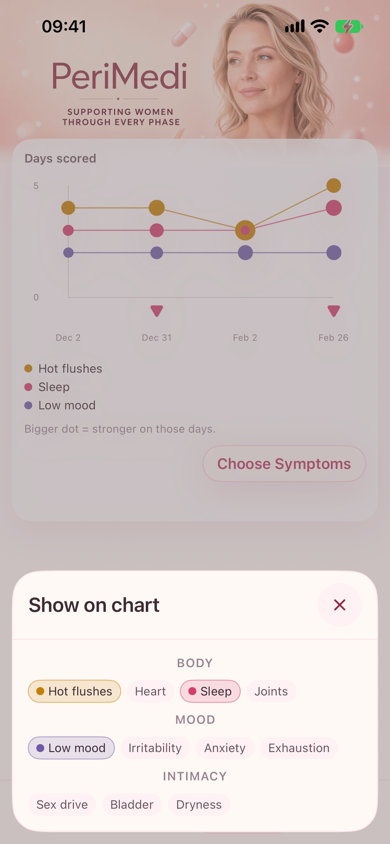
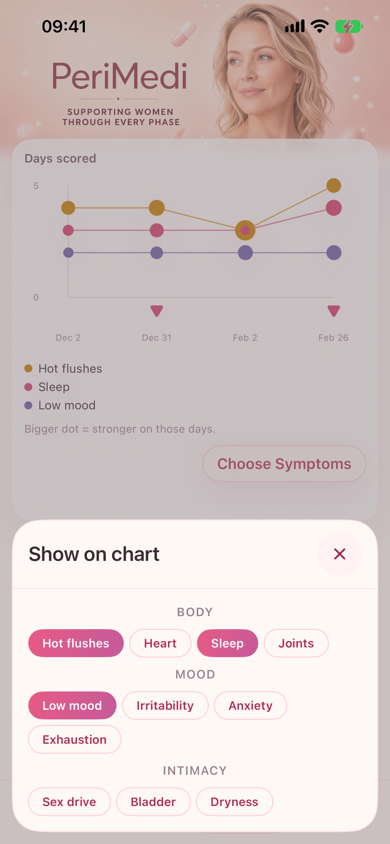
fix(trends): use one selected pill and German chrome (#97)
* docs: add German copy-review before shots

* fix(l10n): match German legend and backup titles

* fix(trends): use language pills on the symptom sheet

* docs: add German copy-review after shots

* fix(trends): wrap a long choice name

A name longer than 22 characters stays in a 220-point frame and two lines. Short names keep the compact pill.

* docs: refresh the English Choose Symptoms shot

The catalog picture shows a filled pill for a selected name and an outlined pill for the rest.

* fix(l10n): use Beschwerde on the empty Cycle screen

The German legend, the add row, and the empty sentence use the same word. The copy-review folder is named in the screen catalog note.

diff --git a/ios/PeriMedi/Features/Trends/TrendsPickerSheet.swift b/ios/PeriMedi/Features/Trends/TrendsPickerSheet.swift
@@ -71,8 +71,16 @@ struct TrendsPickerSheet: View {
 
     private func chip(_ id: String, title: String, selectedIds: [String], ranked: [String]) -> some View {
         let on = selectedIds.contains(id)
-        let color = seriesColor(for: id, selectedIds: selectedIds)
-        return Button {
+        let wide = title.count > 22
+        return PillButton(
+            title: title,
+            kind: on ? .primary : .secondary,
+            identifier: A11yID.trendsSeries(id),
+            fillsWidth: wide,
+            lines: wide ? 2 : 1,
+            barHeight: 28,
+            labelScale: 0.8
+        ) {
             let next = SymptomTrendLogic.toggling(
                 id,
                 in: selectedIds,
@@ -80,44 +88,8 @@ struct TrendsPickerSheet: View {
                 directory: store.symptomDirectory
             )
             selectedStorage = next.isEmpty ? "-" : next.joined(separator: ",")
-        } label: {
-            HStack(spacing: 4) {
-                if on {
-                    Circle()
-                        .fill(color)
-                        .frame(width: 8, height: 8)
-                }
-                chipTitle(title, on: on)
-            }
-            .padding(.horizontal, 8)
-            .padding(.vertical, 4)
-            .background(Capsule().fill(on ? color.opacity(0.16) : Theme.blush50))
-            .overlay(Capsule().stroke(on ? color.opacity(0.45) : Color.clear, lineWidth: 1))
         }
-        .buttonStyle(.plain)
-        .accessibilityLabel(title)
-        .accessibilityIdentifier(A11yID.trendsSeries(id))
+        .frame(width: wide ? 220 : nil, alignment: .leading)
         .accessibilityValue(on ? "on" : "off")
-    }
-
-    @ViewBuilder
-    private func chipTitle(_ title: String, on: Bool) -> some View {
-        let text = Text(title)
-            .font(.caption)
-            .foregroundStyle(on ? Theme.ink : Theme.inkSoft)
-            .multilineTextAlignment(.leading)
-        if title.count > 22 {
-            text
-                .lineLimit(2)
-                .frame(width: 220, alignment: .leading)
-        } else {
-            text.lineLimit(1)
-        }
-    }
-
-    private func seriesColor(for id: String, selectedIds: [String]) -> Color {
-        let ordered = store.symptomDirectory.rankedIds.filter { selectedIds.contains($0) }
-        let index = ordered.firstIndex(of: id) ?? 0
-        return TrendsStyle.seriesColors[index % TrendsStyle.seriesColors.count]
     }
 }

diff --git a/ios/PeriMedi/App/L10n.swift b/ios/PeriMedi/App/L10n.swift
@@ -355,14 +355,14 @@ enum L10n {
         "legend.cycleDay": "Zyklustag",
         "legend.period": "Periode",
         "legend.predicted": "Vorhergesagt",
-        "legend.symptom": "Symptom",
+        "legend.symptom": "Beschwerde",
         "legend.taken": "Genommen",
         "legend.notTaken": "Nicht genommen",
         "diagram.medsAndDoses": "Medikamente & Dosen",
         "diagram.emptyMedsTitle": "Noch keine Periode und kein Medikament",
         "diagram.emptyMedsBody": "Logge eine Periode und füge ein Medikament hinzu, um auf dem Zyklus zu tracken.",
         "diagram.emptyTitle": "Das ist PeriMedi",
-        "diagram.emptyBody": "PeriMedi begleitet dich in der Perimenopause. Tracke Medikamente, Perioden und Symptome.",
+        "diagram.emptyBody": "PeriMedi begleitet dich in der Perimenopause. Erfasse Medikamente, Perioden und Beschwerden.",
         "diagram.emptyToggleTaken": "Tippen: genommen",
         "diagram.needPeriodTitle": "Keine Periode geloggt",
         "diagram.needPeriodBody": "Logge eine Periode, damit die Tage zum Zyklus passen.",
@@ -370,7 +370,7 @@ enum L10n {
         "diagram.needMedBody": "Füge eines mit dem Pillen-Button oben hinzu.",
         "diagram.emptyAddPeriod": "Periode loggen",
         "diagram.emptyAddMedHint": "Medikament hinzufügen",
-        "diagram.emptyAddSymptomHint": "Symptom hinzufügen",
+        "diagram.emptyAddSymptomHint": "Beschwerde hinzufügen",
         "diagram.cycleDays": "Tage",
         "diagram.cyclePeriodMeta": "{{cycle}} T · {{period}} T Periode",
         "diagram.noPeriod": "Keine Periode",
@@ -572,12 +572,12 @@ enum L10n {
         "more.sampleLabel": "Beispiel laden",
         "more.sampleConfirm": "Alle lokalen Daten durch das Beispiel ersetzen?",
         "more.sampleLoaded": "Beispieldaten geladen.",
-        "more.exportTitle": "Export",
+        "more.exportTitle": "Exportieren",
         "more.exportBody": "JSON-Sicherung teilen.",
         "more.exportLabel": "Exportieren",
         "more.exportDone": "Sicherung zum Teilen bereit.",
         "more.exportFailed": "Export fehlgeschlagen",
-        "more.importTitle": "Import",
+        "more.importTitle": "Importieren",
         "more.importBody": "Aus einer Sicherungsdatei wiederherstellen.",
         "more.importLabel": "Datei wählen",
         "more.importDone": "Import abgeschlossen.",

diff --git a/ios/PeriMedi/Features/Month/MonthView.swift b/ios/PeriMedi/Features/Month/MonthView.swift
@@ -339,7 +339,7 @@ private struct FlowLegend: View {
                     Text(app.t("legend.cycleDay")).font(.caption2).foregroundStyle(Theme.inkSoft)
                 }
             }
-            HStack(spacing: 10) {
+            WrappingHStack(spacing: 10, lineSpacing: 6) {
                 legend(app.t("legend.period"), Color.red)
                 legend(app.t("legend.predicted"), Color.pink.opacity(0.6))
                 HStack(spacing: 4) {

diff --git a/.grok/skills/verify-perimedi/features/trends.md b/.grok/skills/verify-perimedi/features/trends.md
@@ -29,7 +29,7 @@ Bottom bar → Trends. Launch flag `-tabTrends` (same pattern as `-tabMonth` / `
 | Choose Symptoms | `trends.change` | Chart only, button at the bottom of the card (EN Choose Symptoms / DE Symptome wählen). Opens `sheet.trends`. Missing on empty. |
 | Sheet | `sheet.trends` | After `trends.change`. Title Show on chart / Im Diagramm zeigen. Close with `sheet.close`. |
 | Group title | `trends.group.{id}` | `A11yID.trendsGroup(_:)` → `trends.group.{id}`. Body / mood / urogenital inside the sheet. `trends.group.custom` appears when the user has a custom symptom. |
-| Series | `trends.series.{id}` | `A11yID.trendsSeries(_:)` → `trends.series.{id}`. On the chart: stacked legend of the three selected, value `on`. Off ids exist only in the sheet. Fixture defaults: `hot_flash`, `mood`, `sleep` on the legend; `anxiety` after opening the sheet, value `off`. Selecting `anxiety` turns it `on` and `sleep` `off`. |
+| Series | `trends.series.{id}` | `A11yID.trendsSeries(_:)` → `trends.series.{id}`. On the chart: stacked legend of the three selected, value `on`, each name with its series-color dot. In the sheet, on is the filled language pill and off is the outlined language pill. The test proof stays the value `on` or `off`. The sheet does not paint a series color or a status dot. Off ids exist only in the sheet. Fixture defaults: `hot_flash`, `mood`, `sleep` on the legend; `anxiety` after opening the sheet, value `off`. Selecting `anxiety` turns it `on` and `sleep` `off`. |
 | Dot | `trends.dot.{id}.{cycleStart}` | `A11yID.trendsDot(_:_:)` → `trends.dot.{id}.{cycleStart}`. Fixture `hot_flash` on `2026-01-04`: value contains `count:8` and `mean:1`. On `2026-02-01`: `count:2` and `mean:4`. Sleep on `2026-01-04` does not exist (gap, not a zero). |
 | Detail | `trends.detail` | After tapping a hot-flash dot: value contains `id:hot_flash`, `cycle:`, `count:`, and `mean:`. User-facing copy says average, not mean. A selected circle uses a strong ring. Same-point taps cycle through overlapping series; a tap on empty plot clears the selection. |
 | Plot | `trends.plot` | Horizontal scroller for cycle points. Latest cycles are in view first; pan left for older ones when they do not fit. |

diff --git a/ios/docs/screens.md b/ios/docs/screens.md
@@ -2,6 +2,8 @@
 
 Main-screen Simulator PNGs live in `screens/`. `expected.txt` lists sixteen English catalog names, `sheet-symptom-pill-de.png`, and the two widget pictures. `ScreenCatalogTests` writes the sixteen English names by navigating a few sessions (empty, sample, Trends fixture, no-scores), not one app launch per file. It switches to German only to write `sheet-symptom-pill-de.png`. The widget journey rewrites `widget-medium-before-en.png` and `widget-medium-after-en.png` on every run, including `drive` and GitHub. Commit the PNGs. UX reviews the **image diff in Files changed**. CI does not rewrite the catalog pictures. It only fails if a committed file is missing. Skip the catalog writer locally with `SCREEN_CATALOG=0`.
 
+`ios/docs/copy-review/` holds one-off #44 German before/after copy shots, is not in `expected.txt`, is not checked by `check-screen-catalog.py`, and may be deleted after merge.
+
 Do **not** paste screenshot galleries into PR comments. Do **not** use a per-PR dump (`pr-41-simulator` or any pull-request id in the path).
 
 English catalog pictures: Cycle empty, Cycle with data, Trends empty, Trends with data, Trends Choose Symptoms sheet, Trends dot tap, Trends dose-tick sentence, Trends no-scores, Month, More, visit cycle picker, in-app visit PDF preview, add-medication sheet, period sheet, symptom sheet, and the symptom sheet with a wrapped custom name. The one German catalog picture is the New symptom pill (`sheet-symptom-pill-de.png`). The widget pictures are the medium card before and after Take. Names are `{screen}-{state}-{locale}.png` (see `screens/expected.txt`). Do not keep old chip-cloud layout shots.

diff --git a/openspec/specs/symptom-trends/spec.md b/openspec/specs/symptom-trends/spec.md
@@ -78,6 +78,10 @@ The system SHALL draw at most three symptom series. The default series SHALL be 
 - **WHEN** the Choose Symptoms sheet is open
 - **THEN** the top-left close control dismisses it and there is no Done button
 
+#### Scenario: Sheet choices match the language pills
+- **WHEN** the Choose Symptoms sheet is open
+- **THEN** a selected name uses the same filled pill as the active language, an unselected name uses the same outlined pill as an inactive language choice, and the sheet does not paint a series color or a status dot
+
 ### Requirement: Tap shows cycle numbers
 Activating a dot SHALL show that symptom’s name, the cycle’s date range, the day count, and the mean intensity as numbers, and SHALL highlight the selected circle with a strong ring. The user-facing word for that intensity SHALL be “average” in English and “Mittel” in German. Copy SHALL be English and German according to the active language. When several circles sit on the same point, activating that point again SHALL cycle through those series. Activating empty plot area SHALL clear the selection.
 
